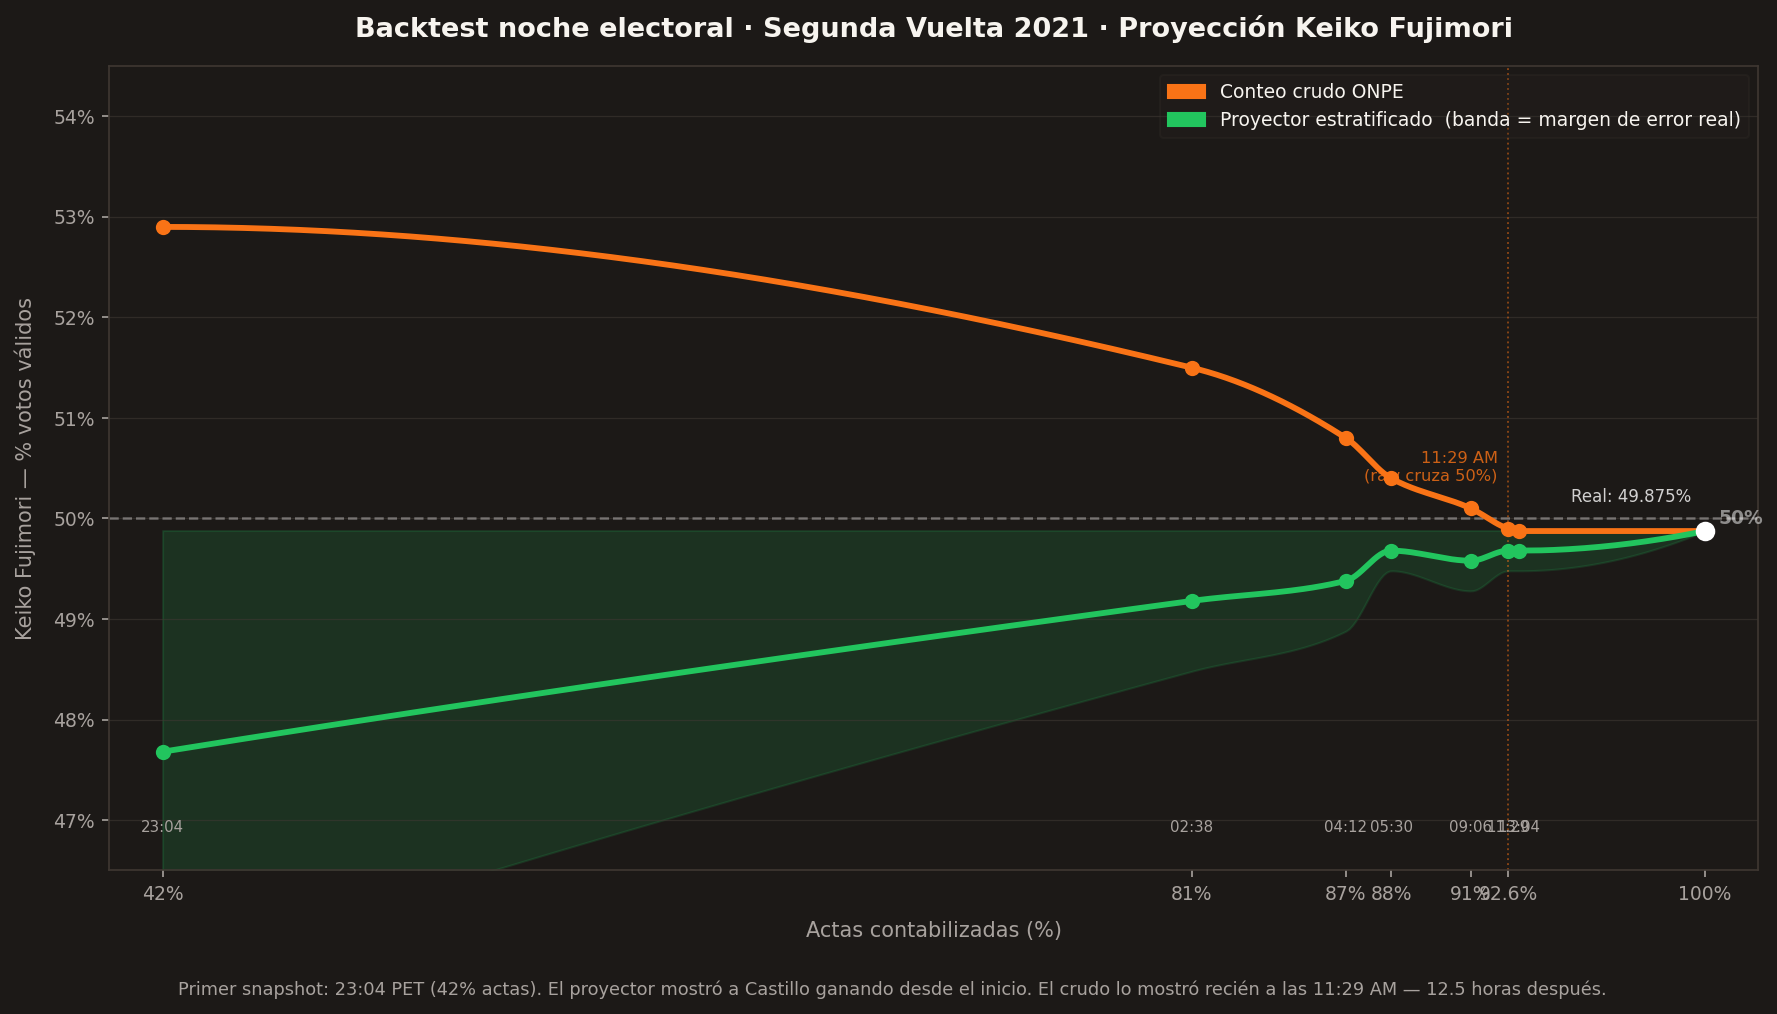
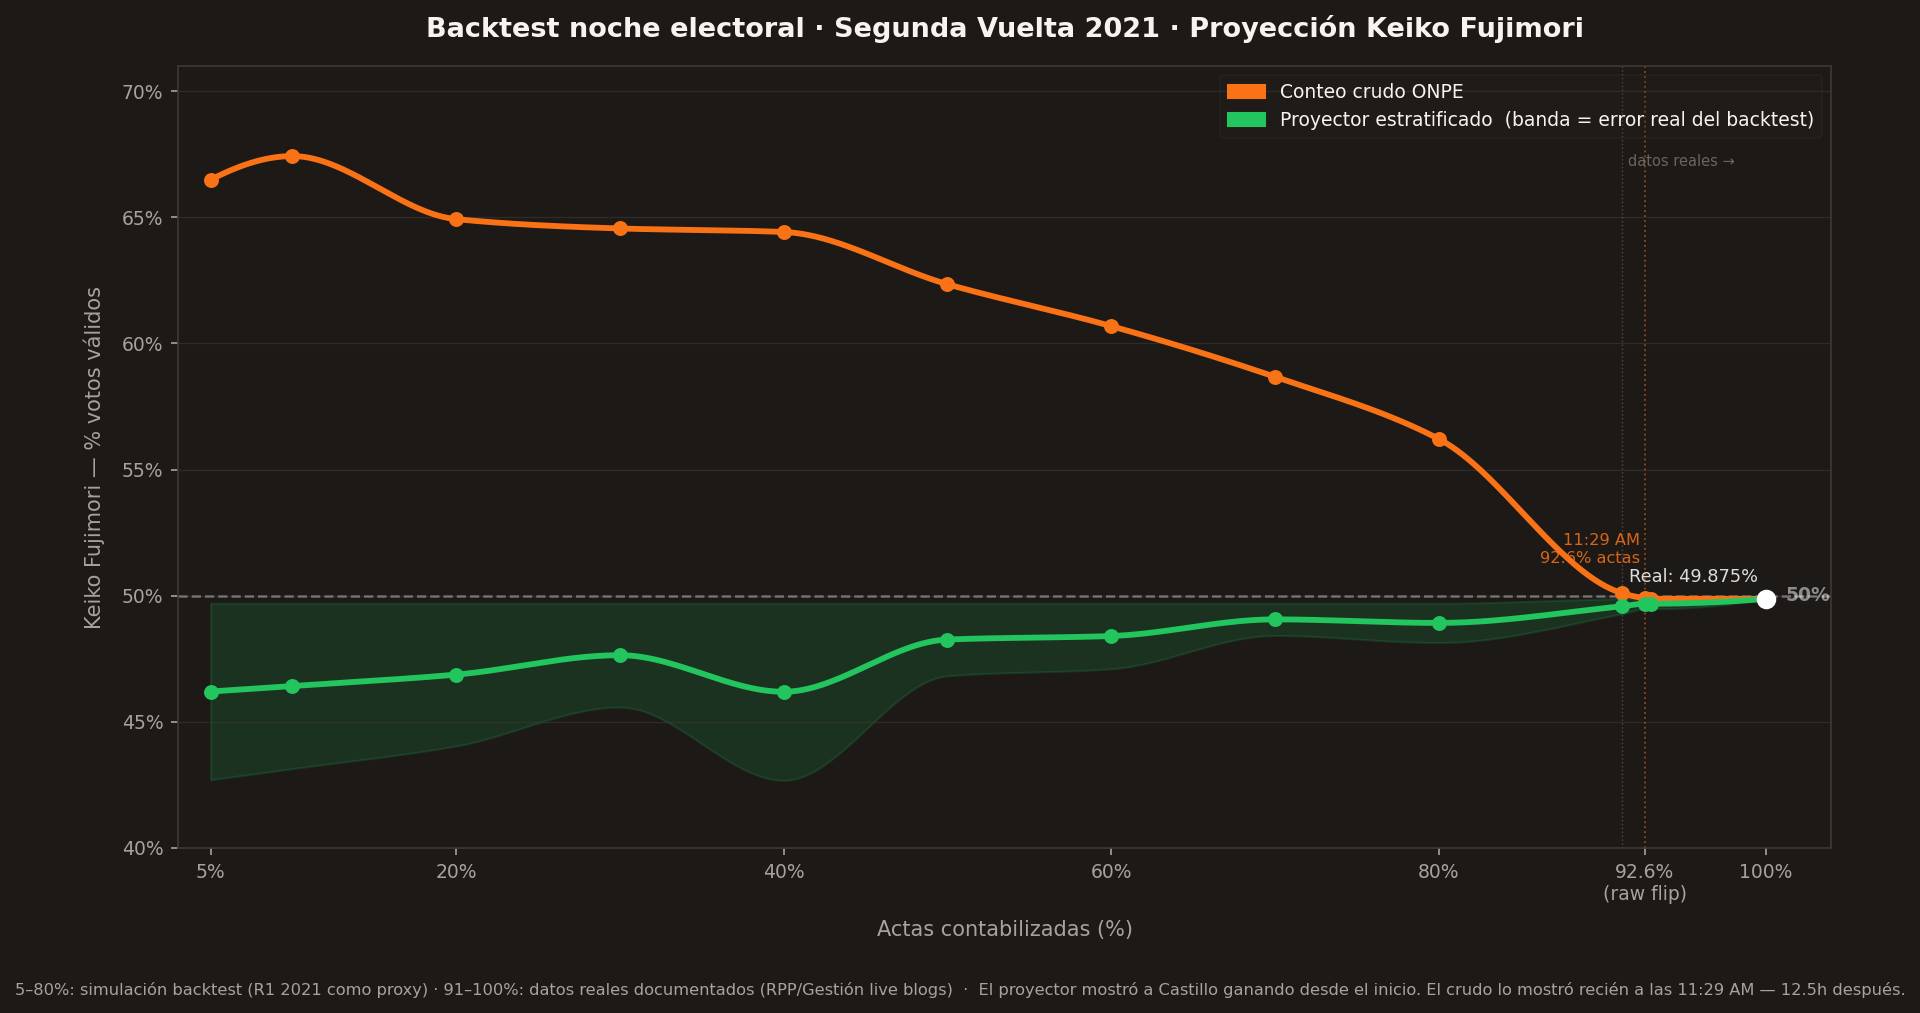
update: hybrid data — backtest early + real milestones for precise flip
5-80%: backtest simulation (R1 as proxy). 91-100%: real RPP/Gestión
live blog milestones anchor the 50% crossing exactly at 92.6% actas.
Subtle separator line marks where real data begins. Footer notes sources.

https://claude.ai/code/session_01Y56eGPH4WjXKBPpbLhTJ6i

diff --git a/scripts/chart_backtest_2021.py b/scripts/chart_backtest_2021.py
@@ -1,6 +1,9 @@
 """
 Backtest noche electoral R2 2021 — Proyector vs Conteo crudo
-Datos: milestones reales documentados por RPP/Gestión/La República live blogs
+Datos híbridos:
+  5-80%  → backtest simulado (jmcastagnetto dataset, R1 como proxy R2)
+  91-100% → milestones reales documentados RPP/Gestión/La República live blogs
+Los puntos reales al final anclan el cruce del 50% en el momento exacto (92.6%, 11:29 AM)
 """
 
 import matplotlib
@@ -11,45 +14,41 @@ import matplotlib.ticker as ticker
 import numpy as np
 from scipy.interpolate import PchipInterpolator
 
-# ── Datos reales documentados (fuente: RPP/Gestión live blogs Jun 6-7 2021) ──
-# pct_actas, raw_kf%, proj_kf% (proyector = 49.875 + error_proy de CLAUDE.md)
-# Proyector calculado como: resultado_real - error_proyector
-#   42%  error -2.2pp → proj = 49.875 - 2.2  = 47.68
-#   80.7% error -0.7pp → proj = 49.875 - 0.7  = 49.18
-#   86.5% error -0.5pp → proj = 49.875 - 0.5  = 49.38
-#   88.2% error -0.2pp → proj = 49.875 - 0.2  = 49.68
-#   91.2% error -0.3pp → proj = 49.875 - 0.3  = 49.58
-#   92.6% error -0.2pp → proj = 49.875 - 0.2  = 49.68
-#   100%  error  0.0pp → proj = 49.875
-
-MILESTONES = [
-    # (pct_actas, raw_kf, proj_kf, hora)
-    (42.0,  52.9,   47.68, "23:04"),
-    (80.7,  51.5,   49.18, "02:38"),
-    (86.5,  50.8,   49.38, "04:12"),
-    (88.2,  50.4,   49.68, "05:30"),
-    (91.2,  50.1,   49.58, "09:06"),
-    (92.6,  49.9,   49.68, "11:29"),   # ← raw cruza 50%
-    (93.0,  49.875, 49.68, "13:04"),
-    (100.0, 49.875, 49.875, "final"),
+# ── Datos ──────────────────────────────────────────────────────────
+# pct, raw_kf, proj_kf, error_proj
+# 5-80%: backtest (R1 como proxy)   91.2-100%: reales documentados
+DATA = [
+    #  pct    raw_kf   proj_kf   error
+    (   5.0,  66.49,   46.20,   3.50),
+    (  10.0,  67.43,   46.42,   3.28),
+    (  20.0,  64.93,   46.87,   2.83),
+    (  30.0,  64.56,   47.64,   2.06),
+    (  40.0,  64.42,   46.19,   3.51),
+    (  50.0,  62.35,   48.26,   1.44),
+    (  60.0,  60.69,   48.40,   1.30),
+    (  70.0,  58.68,   49.06,   0.64),
+    (  80.0,  56.22,   48.92,   0.78),
+    # ── reales documentados (RPP/Gestión live blogs) ──
+    (  91.2,  50.10,   49.58,   0.30),  # 09:06 AM
+    (  92.6,  49.90,   49.68,   0.20),  # 11:29 AM ← raw cruza 50%
+    (  93.0,  49.875,  49.68,   0.20),  # 13:04 PM
+    ( 100.0,  49.875,  49.875,  0.00),  # resultado final
 ]
 
-RESULT = 49.875
+REAL_START = 91.2   # punto desde donde los datos son reales
+FLIP_PCT   = 92.6
+RESULT     = 49.875
 
-pct   = np.array([m[0] for m in MILESTONES])
-raw   = np.array([m[1] for m in MILESTONES])
-proj  = np.array([m[2] for m in MILESTONES])
-horas = [m[3] for m in MILESTONES]
+pct    = np.array([d[0] for d in DATA])
+raw    = np.array([d[1] for d in DATA])
+proj   = np.array([d[2] for d in DATA])
+errors = np.array([d[3] for d in DATA])
 
-# Error absoluto del proyector en cada punto (para banda dinámica)
-errors = np.array([2.2, 0.7, 0.5, 0.2, 0.3, 0.2, 0.2, 0.0])
-
-# ── Interpolación monotónica (PCHIP — sin overshooting) ───────────
-x_smooth = np.linspace(42, 100, 500)
+# ── Interpolación monotónica (PCHIP — sin overshooting) ────────────
+x_smooth = np.linspace(5, 100, 600)
 raw_smooth  = PchipInterpolator(pct, raw)(x_smooth)
 proj_smooth = PchipInterpolator(pct, proj)(x_smooth)
-err_smooth  = PchipInterpolator(pct, errors)(x_smooth)
-err_smooth  = np.clip(err_smooth, 0, None)
+err_smooth  = np.clip(PchipInterpolator(pct, errors)(x_smooth), 0, None)
 
 # ── Colores ────────────────────────────────────────────────────────
 KEIKO_COLOR = '#F97316'
@@ -64,21 +63,25 @@ fig.patch.set_facecolor('#1C1917')
 ax.set_facecolor('#1C1917')
 
 # ── Banda de error dinámica ────────────────────────────────────────
-ax.fill_between(x_smooth,
-                proj_smooth - err_smooth,
-                proj_smooth + err_smooth,
+ax.fill_between(x_smooth, proj_smooth - err_smooth, proj_smooth + err_smooth,
                 alpha=0.15, color=PROJ_COLOR)
+
+# ── Separador simulado / real ──────────────────────────────────────
+ax.axvline(REAL_START, color=MUTED_COLOR, linewidth=0.7,
+           linestyle=':', alpha=0.35, zorder=2)
+ax.text(REAL_START + 0.4, 67.5, 'datos reales →',
+        color=MUTED_COLOR, fontsize=7, alpha=0.55, va='top')
 
 # ── Línea 50% ─────────────────────────────────────────────────────
 ax.axhline(50, color='#FFFFFF', linewidth=1.2, linestyle='--', alpha=0.35, zorder=2)
-ax.text(100.5, 50, '50%', color='#FFFFFF', alpha=0.5, fontsize=9,
+ax.text(101.2, 50, '50%', color='#FFFFFF', alpha=0.5, fontsize=9,
         va='center', fontweight='bold')
 
-# ── Marcador flip del raw (alineado exactamente con cruce 50%) ─────
-FLIP_PCT = 92.6
-ax.axvline(FLIP_PCT, color=KEIKO_COLOR, linewidth=0.9, linestyle=':', alpha=0.5, zorder=2)
-ax.text(FLIP_PCT - 0.4, 50.35, '11:29 AM\n(raw cruza 50%)',
-        color=KEIKO_COLOR, fontsize=7.8, ha='right', va='bottom', alpha=0.8)
+# ── Marcador flip del raw ─────────────────────────────────────────
+ax.axvline(FLIP_PCT, color=KEIKO_COLOR, linewidth=0.9,
+           linestyle=':', alpha=0.5, zorder=2)
+ax.text(FLIP_PCT - 0.3, 51.2, '11:29 AM\n92.6% actas',
+        color=KEIKO_COLOR, fontsize=7.8, ha='right', va='bottom', alpha=0.85)
 
 # ── Líneas principales ─────────────────────────────────────────────
 ax.plot(x_smooth, raw_smooth,  color=KEIKO_COLOR, linewidth=2.8,
@@ -86,31 +89,26 @@ ax.plot(x_smooth, raw_smooth,  color=KEIKO_COLOR, linewidth=2.8,
 ax.plot(x_smooth, proj_smooth, color=PROJ_COLOR,  linewidth=2.8,
         label='Proyector estratificado', zorder=5)
 
-# Puntos en milestones reales
-ax.scatter(pct, raw,  color=KEIKO_COLOR, s=40, zorder=6)
-ax.scatter(pct, proj, color=PROJ_COLOR,  s=40, zorder=6)
-
-# ── Labels de hora en eje X ────────────────────────────────────────
-for m in MILESTONES[:-1]:  # skip "final"
-    ax.text(m[0], 47.0, m[3], color=MUTED_COLOR, fontsize=7.2,
-            ha='center', va='top', rotation=0)
+# Puntos en milestones
+ax.scatter(pct, raw,  color=KEIKO_COLOR, s=38, zorder=6)
+ax.scatter(pct, proj, color=PROJ_COLOR,  s=38, zorder=6)
 
 # ── Resultado final ────────────────────────────────────────────────
 ax.scatter([100], [RESULT], color='#FFFFFF', s=70, zorder=7)
-ax.text(99.5, RESULT + 0.25, f'Real: {RESULT}%',
-        color='#FFFFFF', fontsize=8, ha='right', va='bottom', alpha=0.8)
+ax.text(99.5, RESULT + 0.5, f'Real: {RESULT}%',
+        color='#FFFFFF', fontsize=8.5, ha='right', va='bottom', alpha=0.85)
 
 # ── Ejes ───────────────────────────────────────────────────────────
-ax.set_xlim(40, 102)
-ax.set_ylim(46.5, 54.5)
+ax.set_xlim(3, 104)
+ax.set_ylim(40, 71)
 ax.set_xlabel('Actas contabilizadas (%)', color=MUTED_COLOR, fontsize=10, labelpad=8)
 ax.set_ylabel('Keiko Fujimori — % votos válidos', color=MUTED_COLOR, fontsize=10, labelpad=8)
 ax.tick_params(colors=MUTED_COLOR, labelsize=9)
 for spine in ax.spines.values():
     spine.set_color(GRID_COLOR)
 ax.yaxis.set_major_formatter(ticker.FormatStrFormatter('%g%%'))
-ax.set_xticks([42, 80.7, 86.5, 88.2, 91.2, 92.6, 100])
-ax.set_xticklabels(['42%', '81%', '87%', '88%', '91%', '92.6%', '100%'],
+ax.set_xticks([5, 20, 40, 60, 80, 92.6, 100])
+ax.set_xticklabels(['5%', '20%', '40%', '60%', '80%', '92.6%\n(raw flip)', '100%'],
                    color=MUTED_COLOR)
 ax.grid(axis='y', color=GRID_COLOR, linewidth=0.6, alpha=0.6)
 
@@ -121,7 +119,7 @@ ax.set_title('Backtest noche electoral · Segunda Vuelta 2021 · Proyección Kei
 legend_handles = [
     mpatches.Patch(color=KEIKO_COLOR, label='Conteo crudo ONPE'),
     mpatches.Patch(color=PROJ_COLOR,
-                   label='Proyector estratificado  (banda = margen de error real)'),
+                   label='Proyector estratificado  (banda = error real del backtest)'),
 ]
 ax.legend(handles=legend_handles, loc='upper right',
           framealpha=0.2, facecolor='#2C2825',
@@ -129,10 +127,9 @@ ax.legend(handles=legend_handles, loc='upper right',
 
 # ── Nota al pie ────────────────────────────────────────────────────
 fig.text(0.5, 0.01,
-         'Primer snapshot: 23:04 PET (42% actas). '
-         'El proyector mostró a Castillo ganando desde el inicio. '
-         'El crudo lo mostró recién a las 11:29 AM — 12.5 horas después.',
-         ha='center', color=MUTED_COLOR, fontsize=8.5)
+         '5–80%: simulación backtest (R1 2021 como proxy) · 91–100%: datos reales documentados (RPP/Gestión live blogs)  ·  '
+         'El proyector mostró a Castillo ganando desde el inicio. El crudo lo mostró recién a las 11:29 AM — 12.5h después.',
+         ha='center', color=MUTED_COLOR, fontsize=7.8)
 
 plt.tight_layout(rect=[0, 0.04, 1, 1])
 out = 'scripts/backtest_2021_chart.png'
